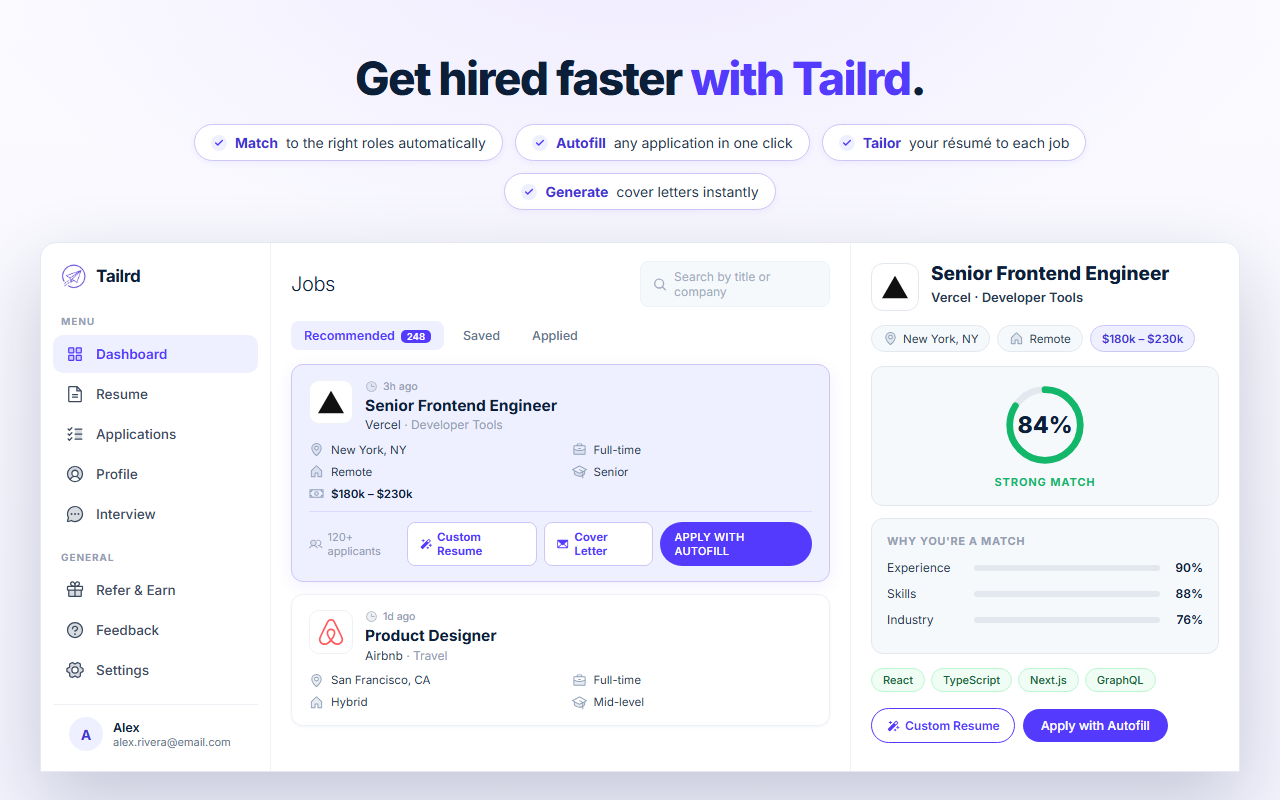
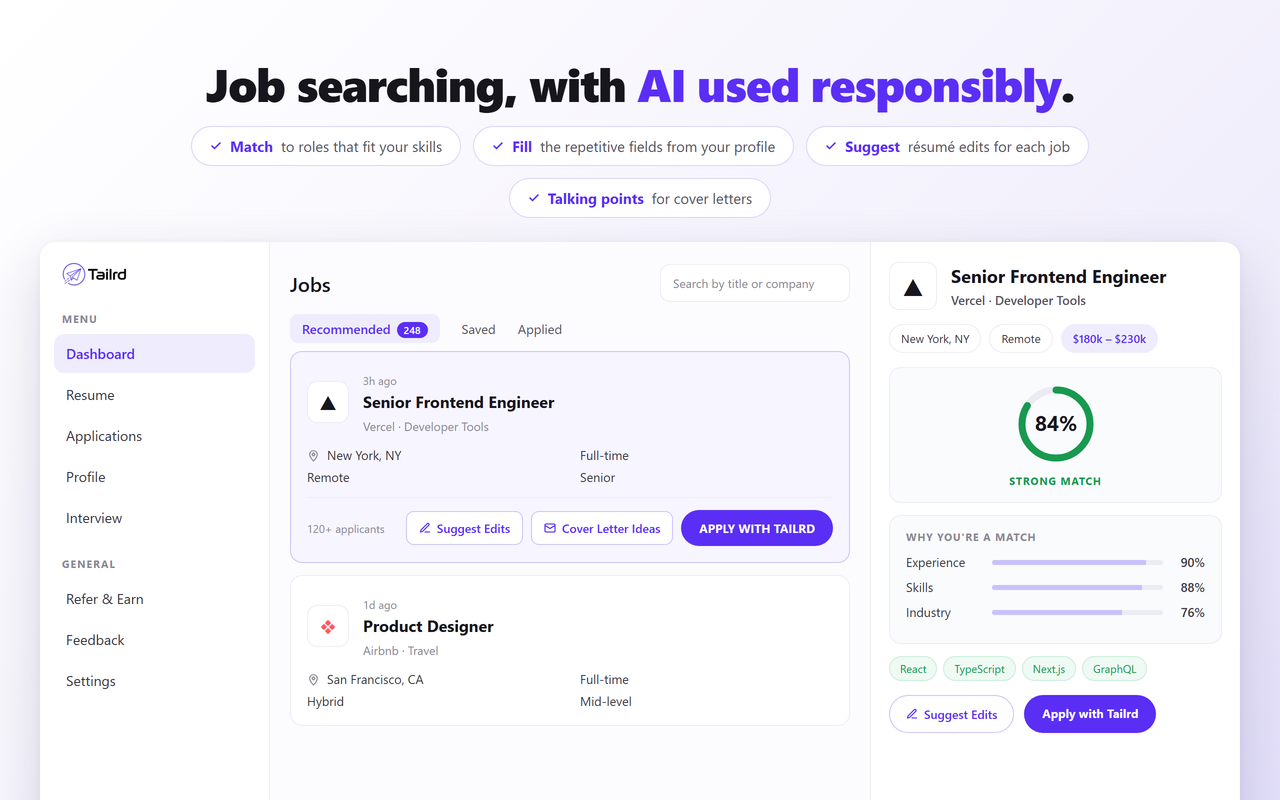
copy: rebuild store screenshot 4 from source; drop "trusted by a million"
- gen-store-screenshots.mjs now renders tailrd-4-dashboard.png too
  (headline "Job searching, with AI used responsibly.", Suggest Edits,
  Cover Letter Ideas, Apply with Tailrd), so all four store images
  regenerate from git
- Landing: remove the unsourced "Trusted by over a million job seekers"
  line

diff --git a/frontend/src/pages/Landing.tsx b/frontend/src/pages/Landing.tsx
@@ -348,10 +348,6 @@ export default function Landing() {
                   className=""
                 />
               </h2>
-              <p className="stats-sub-light">
-                Trusted by over a million job seekers to land interviews faster
-                and cut the time spent searching.
-              </p>
               <button className="btn-dark" onClick={() => navigate("#features")}>
                 See how it works ↗
               </button>

diff --git a/docs/store-submission.md b/docs/store-submission.md
@@ -135,10 +135,8 @@ Set both for **Production**, then redeploy (env changes need a redeploy to apply
 - **Language:** English
 - **Privacy policy URL:** `https://www.tailrd.ca/privacy` (live, returns 200)
 - **Screenshots:** `store-previews/tailrd-1-autofill.png … tailrd-4-dashboard.png`
-  (4 × 1280×800, already the right size). Screenshots 1-3 regenerate with
-  `node scripts/gen-store-screenshots.mjs`; `tailrd-4-dashboard.png` predates that
-  script and still shows the old copy ("Autofill any application", "Generate
-  cover letters"), so it needs a rebuild before the next upload.
+  (4 × 1280×800, already the right size). All four regenerate with
+  `node scripts/gen-store-screenshots.mjs` from `chrome-extension/`.
 - **Small promo tile (440×280):** `store-previews/tailrd-promo-small-440x280.png`
 - **Marquee promo tile (1400×560):** `store-previews/tailrd-promo-marquee-1400x560.png`
   (both 24-bit PNG, no alpha; regenerate with `node scripts/gen-promo-tiles.mjs`)
